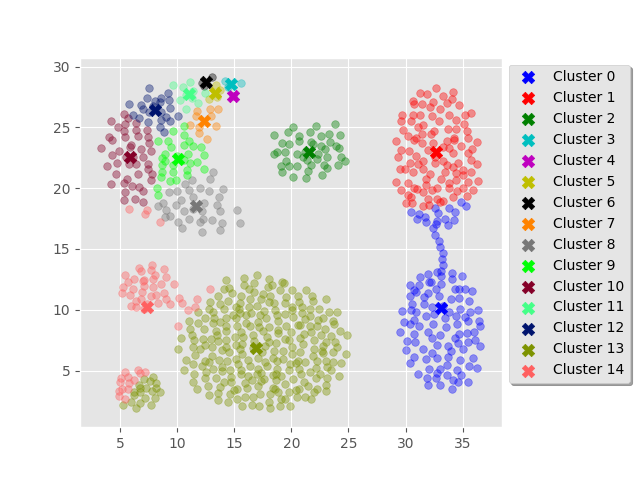
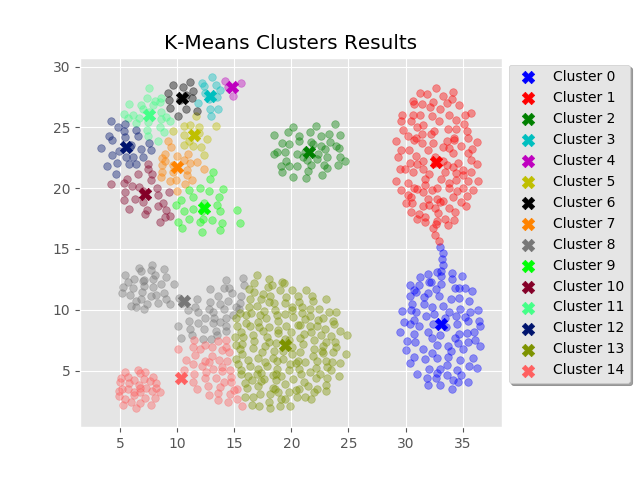
Added a codeline to set the plot title

diff --git a/src/k-means_approx.py b/src/k-means_approx.py
@@ -80,7 +80,8 @@ def main(path,n=3,approx_error=0.0000, iterations=500): #set arguments(n, approx
 	# Plotting the results
 	print("Start Plotting..")
 	colors = 30*["b", "r", "g", "c", "m", "y", "k", "#ff8300", "#777777", "#00ff04",  "#840028", "#45ff88", "#00146e", "#7d9300", "#ff6060", "#ffb600"] #every cluster has its color
-	subplt = pyplt.subplot() 
+	subplt = pyplt.subplot()
+	pyplt.title('K-Means Clusters Results') 
 
 	for centroid in km.centroids:
 		color = colors[centroid] #assign colors to centroid for plotting
@@ -98,4 +99,4 @@ def main(path,n=3,approx_error=0.0000, iterations=500): #set arguments(n, approx
 	pyplt.show()
 
 if __name__ == "__main__":
-	main(path='../dataset/k_means_clustering_test_1.csv', n=15, approx_error=5, iterations=30) #set arguments for main function (path, n, approx_error, iterations)
+	main(path='../dataset/k_means_clustering_test_1.csv', n=15, approx_error=0, iterations=30) #set arguments for main function (path, n, approx_error, iterations)
